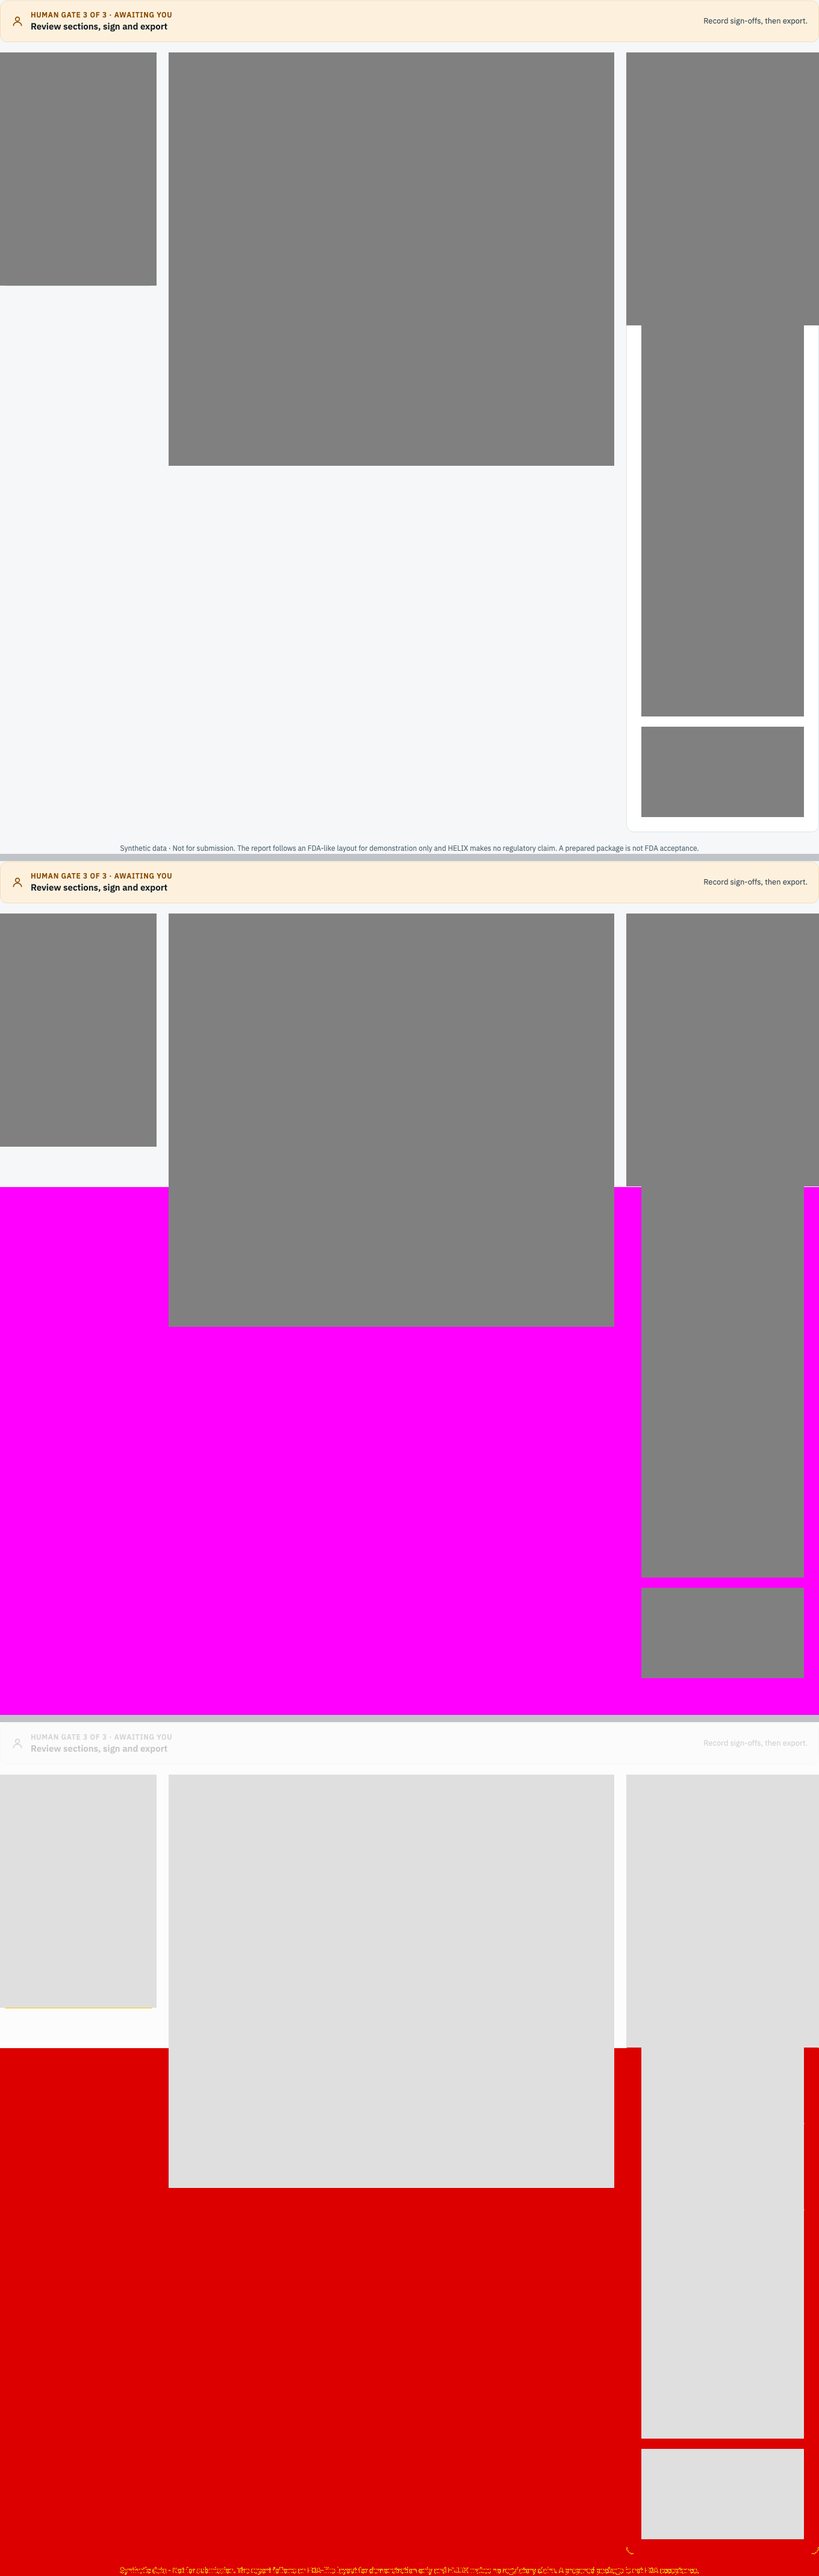
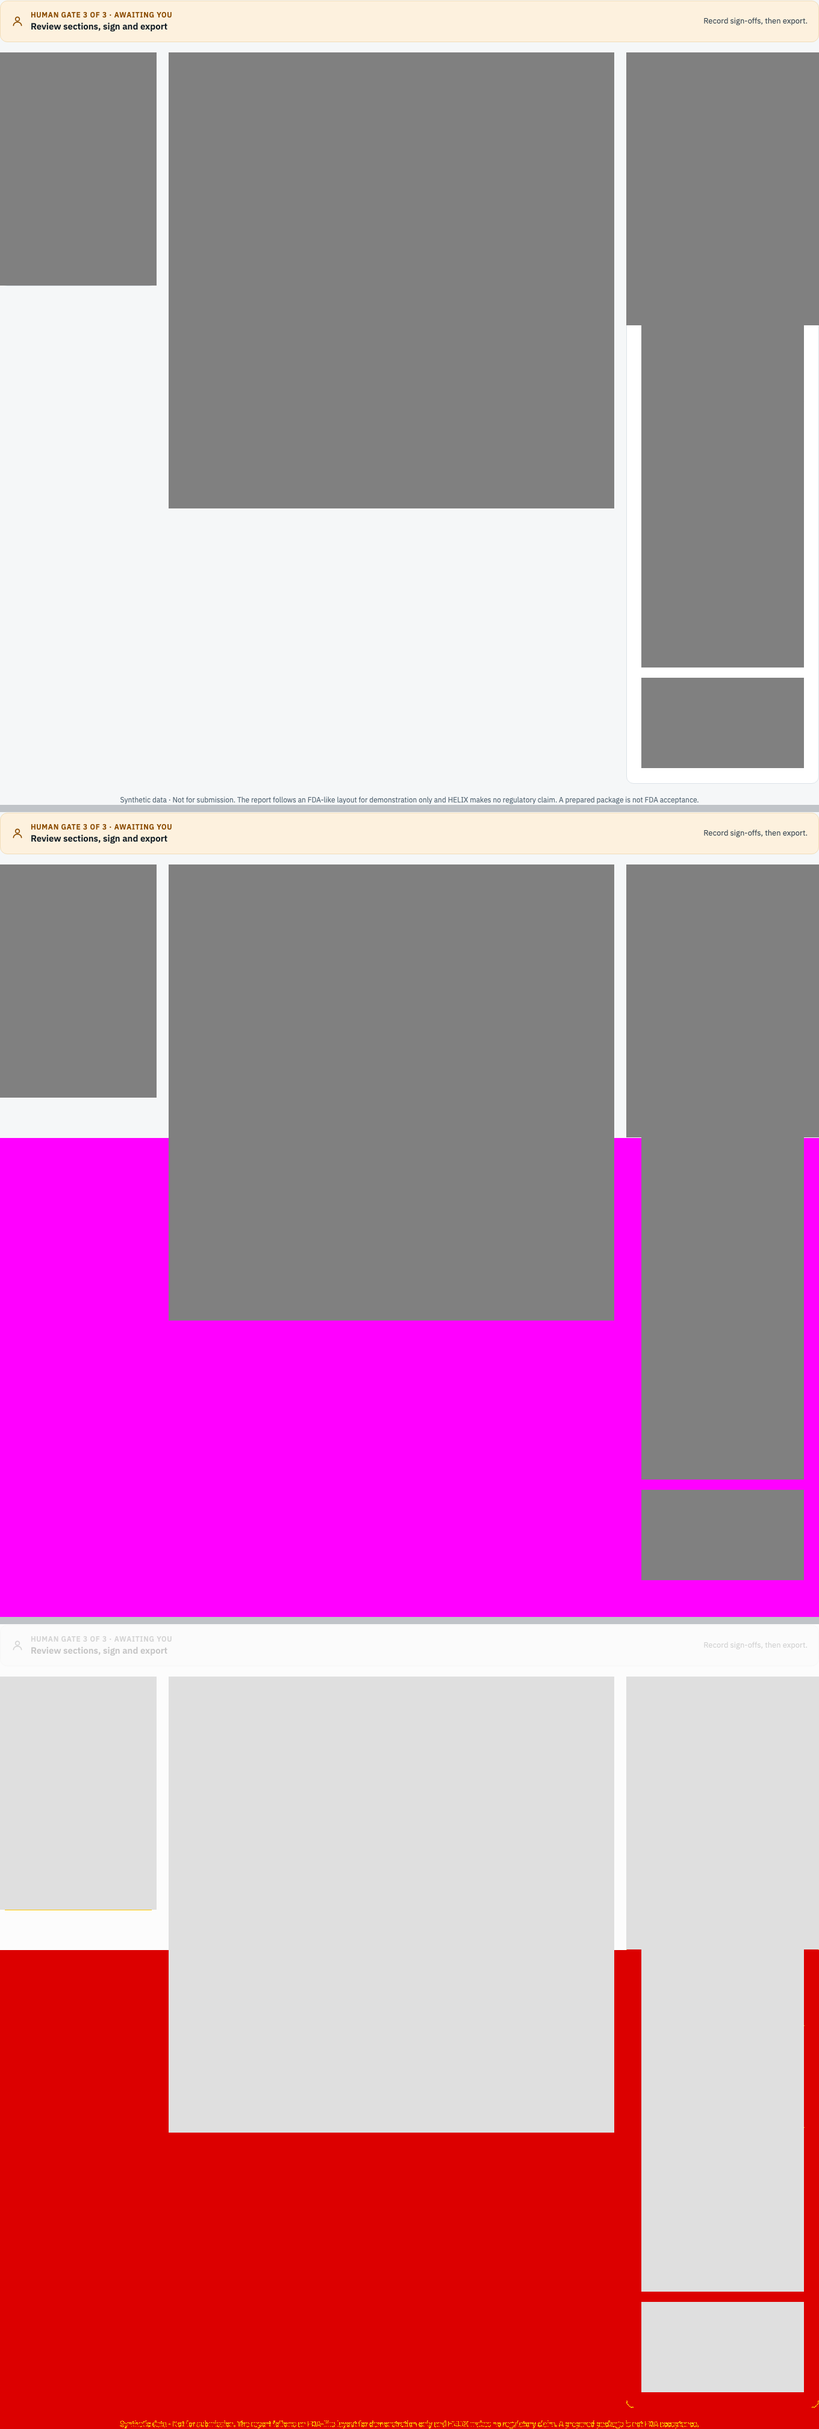
Parity (intentional, critique P1 a-f): refresh report-only review-export-light/dark evidence only
Moved: evidence/parity/review-export-{light,dark}/{result.json,side-by-side.png} (report-only,
83.669%/83.674% -> 80.855%/80.861%). The Gate 3 panel is shorter: hashes collapsed (P1-a), no demo
UI (P1-c), legacy fallback panels hidden at Gate 3 (P1-f). The report body stays masked.
Unchanged: all 25 enforced screens (lane D chrome 8/8 at 0.000%; traceability-gate-light stays at
lane C's own 0.709% baseline). The reference HTML and lane-d.ts masks are not touched.

diff --git a/steven/helix-prototypes/evidence/ui-lane-d/parity-full-kit-summary.md b/steven/helix-prototypes/evidence/ui-lane-d/parity-full-kit-summary.md
@@ -16,8 +16,11 @@ Viewport 1440x900 @1x. Default max diff ratio 1.00%, pixelmatch threshold 0.02.
 | shell-viewport-light | step0 | report-only | light | 30.317% | 1.00% | reported | 1440x900 vs 1440x900 |  |
 | journey-progress-light | A | enforced | light | 0.000% | 1.00% | PASS | 1360x144 vs 1360x144 |  |
 | upload-gate-light | A | report-only | light | 39.190% | 1.00% | reported | 1360x1094 vs 1360x880 | size mismatch (padded area counts as diff) |
-| agent-step-light | B | pending | light | - | 1.00% | skipped |  | skipped: owned by lane B (#21) |
-| traceability-gate-light | C | pending | light | - | 1.00% | skipped |  | skipped: owned by lane C (#22) |
+| agent-run-banner-light | B | enforced | light | 0.000% | 1.00% | PASS | 1360x71 vs 1360x71 |  |
+| agent-stage-card-light | B | enforced | light | 0.000% | 1.00% | PASS | 702x356 vs 702x356 |  |
+| agent-activity-card-light | B | enforced | light | 0.000% | 1.00% | PASS | 639x258 vs 639x258 |  |
+| agent-step-light | B | enforced | light | 0.000% | 1.00% | PASS | 1360x444 vs 1360x444 |  |
+| traceability-gate-light | C | enforced | light | 0.709% | 1.00% | PASS | 1360x662 vs 1360x662 |  |
 | review-header-light | D | enforced | light | 0.000% | 0.10% | PASS | 1440x60 vs 1440x60 |  |
 | review-rail-s8-light | D | enforced | light | 0.000% | 1.00% | PASS | 1360x144 vs 1360x144 |  |
 | review-gate-banner-light | D | enforced | light | 0.000% | 1.00% | PASS | 1360x70 vs 1360x70 |  |
@@ -26,7 +29,7 @@ Viewport 1440x900 @1x. Default max diff ratio 1.00%, pixelmatch threshold 0.02.
 | review-rail-s8-dark | D | enforced | dark | 0.000% | 1.00% | PASS | 1360x144 vs 1360x144 |  |
 | review-gate-banner-dark | D | enforced | dark | 0.000% | 1.00% | PASS | 1360x70 vs 1360x70 |  |
 | review-export-control-dark | D | enforced | dark | 0.000% | 1.00% | PASS | 270x45 vs 270x45 |  |
-| review-export-light | D | report-only | light | 83.669% | 1.00% | reported | 1360x1417 vs 1360x541 | size mismatch (padded area counts as diff) |
-| review-export-dark | D | report-only | dark | 83.674% | 1.00% | reported | 1360x1417 vs 1360x541 | size mismatch (padded area counts as diff) |
+| review-export-light | D | report-only | light | 80.855% | 1.00% | reported | 1360x1336 vs 1360x541 | size mismatch (padded area counts as diff) |
+| review-export-dark | D | report-only | dark | 80.861% | 1.00% | reported | 1360x1336 vs 1360x541 | size mismatch (padded area counts as diff) |
 | design-tokens-light | step0 | enforced | light | 0.000% | 0.00% | PASS | 28 tokens |  |
 | design-tokens-dark | step0 | enforced | dark | 0.000% | 0.00% | PASS | 28 tokens |  |
